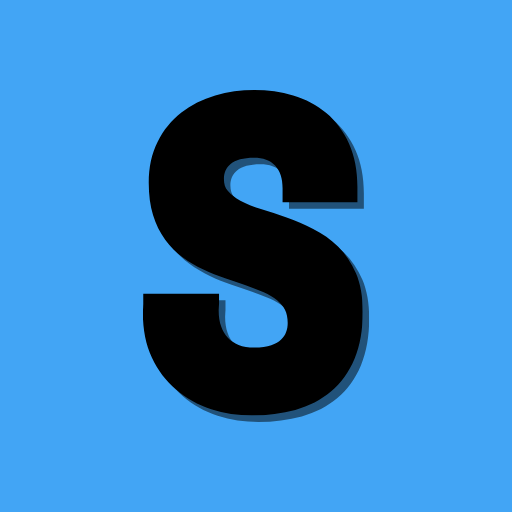
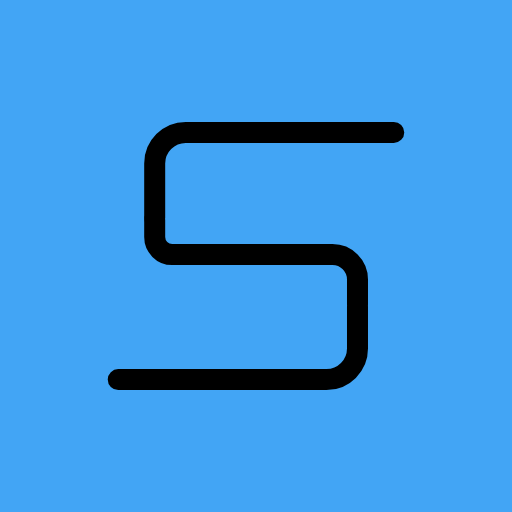
Fix a lot of bugs

Changed region(s): [[0.1875, 0.1562, 0.8125, 0.8438]]

diff --git a/progression/indulgence-course/script-outil.js b/progression/indulgence-course/script-outil.js
@@ -3,33 +3,25 @@ const InterpretationBienveillant = {
     "1": "Je n'ai <strong>pas encore assez de données</strong> pour calculer ton indulgence de course. J'ai hâte que tu enregistres ton <strong>premier entraînement</strong> de course (en enregistrant une distance) dans Sprintia pour qu'on analyse ça ensemble.", 
     "2": "Tu cours <strong>moins depuis 7 jours</strong>, c'est dommage ! Si c'est un choix profite-en pour te reposer ou travailler d'autres aspects de la course comme le <strong>renforcement</strong> ou de la <strong>mobilité</strong>.", 
     "3": "Parfait ! <strong>Tu progresses</strong> grâce à ta <strong>régularité</strong> ainsi qu'à ta discipline, continue comme ça pour booster tes performances. Pour maximiser ta progression, pense toujours à <strong>varier tes allures</strong> d'entraînement.", 
-    "4": "Attention, tu cours <strong>bien plus que d'habitude</strong> ! Si tu continues sur ce rythme tu risques de te <strong>blesser</strong>. P'tit conseil, <strong>réduis</strong> ton volume d'entraînement.", 
-    // Pour les statut
-    "5": "Statut : <strong>Pause</strong><br>Tu as mis en pause les analyses, je ne peux donc pas analyser ton indulgence de course."
+    "4": "Attention, tu cours <strong>bien plus que d'habitude</strong> ! Si tu continues sur ce rythme tu risques de te <strong>blesser</strong>. P'tit conseil, <strong>réduis</strong> ton volume d'entraînement."
 }
 const InterpretationStrictMotivant = {
     "1": "Je n'ai <strong>pas encore assez de données</strong> pour calculer ton indulgence de course. J'ai hâte que tu enregistres ton <strong>premier entraînement</strong> de course (en enregistrant une distance) dans Sprintia pour qu'on analyse ça ensemble.", 
     "2": "Tu cours <strong>moins depuis 7 jours</strong>. Fais attention si tu continues sur cette voie, tu risques de perdre du niveau rapidement ! Petit conseil pour limiter la casse, fais du <strong>renforcement</strong>.", 
     "3": "Parfait ! <strong>Tu progresses</strong> grâce à ta <strong>régularité</strong>. La régularité c'est la clé de la réussite donc, continue comme ça pour progresser. Mais attention, le plus dur n'est pas de progresser mais de continuer à progresser.", 
-    "4": "Tu cours <strong>bien plus que d'habitude</strong> ! Si tu veux te <strong>blesser</strong>, tu es sur la bonne voie, ne joue pas avec le feu, arrête de courir pendant quelques jours, pour revenir plus fort.", 
-    // Pour les statut
-    "5": "Statut : <strong>Pause</strong><br>Tu as mis en pause les analyses, je ne peux donc pas analyser ton indulgence de course."
+    "4": "Tu cours <strong>bien plus que d'habitude</strong> ! Si tu veux te <strong>blesser</strong>, tu es sur la bonne voie, ne joue pas avec le feu, arrête de courir pendant quelques jours, pour revenir plus fort."
 }
 const InterpretationCopain = {
     "1": "Je n'ai <strong>pas encore assez de données</strong> pour calculer ton indulgence de course. J'ai hâte que tu enregistres ton <strong>premier entraînement</strong> de course (en enregistrant une distance) dans Sprintia pour qu'on analyse ça ensemble.", 
     "2": "Tu cours <strong>moins depuis 7 jours</strong>. Essaie de courir un peu plus, ne te relâche pas, sinon tu vas finir par perdre tout ton niveau et crois moi, tu vas t'en vouloir une fois qu'il sera trop tard.", 
     "3": "Bravo ! <strong>Tu progresses</strong> grâce à ton sérieux, ta concentration et ta détermination à toujours donner le meilleur de toi-même. Pour continuer à progresser, pense toujours à <strong>varier tes allures</strong> d'entraînement.", 
-    "4": "Attention, tu cours <strong>bien plus que d'habitude</strong> ! J'ai l'impression que tu aimes un peu trop courir en ce moment, c'est bien, mais attention : moins tu es progressif·ve, plus tu risques de te blesser.", 
-    // Pour les statut
-    "5": "Statut : <strong>Pause</strong><br>Tu as mis en pause les analyses, je ne peux donc pas analyser ton indulgence de course."
+    "4": "Attention, tu cours <strong>bien plus que d'habitude</strong> ! J'ai l'impression que tu aimes un peu trop courir en ce moment, c'est bien, mais attention : moins tu es progressif·ve, plus tu risques de te blesser."
 }
 const InterpretationGoMuscu = {
     "1": "Je n'ai <strong>pas encore assez de données</strong> pour calculer ton indulgence de course. J'ai hâte que tu enregistres ton <strong>premier entraînement</strong> de course (en enregistrant une distance) dans Sprintia pour qu'on analyse ça ensemble.", 
     "2": "Tu cours <strong>moins depuis 7 jours</strong>, attention, la course à pied c'est comme la musculation ça demande de la <strong>régularité</strong>. Ton coeur, c'est un muscle, il faut le travailler pour qu'il devienne meilleur.", 
     "3": "<strong>Tu progresses</strong>, parfait ! En plus de travailler tes muscles, tu travailles ton coeur, bien joué ! Pour continuer à progresser, pense toujours à <strong>varier tes allures</strong> d'entraînement.", 
-    "4": "Tu cours <strong>bien plus que d'habitude</strong> ! Fais attention, si tu continues sur ce rythme tu risques de te <strong>blesser</strong> donc réduis ton volume kilométrique.", 
-    // Pour les statut
-    "5": "Statut : <strong>Pause</strong><br>Tu as mis en pause les analyses, je ne peux donc pas analyser ton indulgence de course."
+    "4": "Tu cours <strong>bien plus que d'habitude</strong> ! Fais attention, si tu continues sur ce rythme tu risques de te <strong>blesser</strong> donc réduis ton volume kilométrique."
 }
 
 async function RecupData() {

diff --git a/entrainement/statistiques.html b/entrainement/statistiques.html
@@ -235,9 +235,9 @@
         const DateActuelle = new Date()
 
         let DateMoins7J = DateActuelle.setDate(DateActuelle.getDate() - 7) // pour le calcul des dates il faut les mettre en timestamp enleve le nb de j ici, ça renvoie ex: 1769014250809
-        DateMoins7J = new Date(DateMoins7J).toISOString() // permet de recup '2026-01-21T17:13:53.151Z'
+        DateMoins7J = new Date(DateMoins7J).toISOString() // permet de recup "2026-01-21T17:13:53.151Z"
         // On prend que ce qui nous interesse donc la premiere partie
-        DateMoins7J = DateMoins7J.split('T')[0] // on obtient '2026-01-21'
+        DateMoins7J = DateMoins7J.split("T")[0] // on obtient "2026-01-21"
 
         let DateMoins30J = DateActuelle.setDate(DateActuelle.getDate() - 30) // pour le calcul des dates il faut les mettre en timestamp enleve le nb de j ici, ça renvoie ex: 1769014250809
         DateMoins30J = new Date(DateMoins30J).toISOString() // permet de recup '2026-01-21T17:13:53.151Z'
@@ -261,6 +261,8 @@
         async function statistiquesParSport(sportForFunction) {
             // recup data des derniers jours en fonction de la date
             const historiqueDBStats = await db.entrainement.where("date").above(dateDemandee).toArray() // la var dateChoisie change en fonction du selected dans l'interface
+            
+            console.log(historiqueDBStats)
 
             // maj de la variable globale
             sportDemandee = sportForFunction

diff --git a/progression/charge-entrainement/script-outil.js b/progression/charge-entrainement/script-outil.js
@@ -82,10 +82,8 @@ async function InterpretationJRM(Ratio, AnalysePossible) {
         "Statut : <strong>Désentraînement</strong><br>Tu régresses là ! Il ne faut pas hésiter à faire 1 ou 2 répétitions en plus sur tes séries pour pouvoir augmenter ton RPE et par conséquent ta charge d'entraînement.",
         "Statut : <strong>Productif</strong><br>GG, tu progresses, je vois que tu mets une bonne intensité pendant tes séances, continue comme ça. Tu n'as presque plus besoin de moi.",
         "Statut : <strong>Surentraînement</strong><br>Ton corps n'arrive pas à bien récupérer de tes entraînements récents, n'oublie jamais que le muscle se construit au repos, pas à la salle, repose-toi un peu avant d'aller à la salle."
-    ] 
-
-    const PhraseJRMStatut = "Statut : <strong>Pause</strong><br>Actuellement les analyses sont en pause je ne peux donc pas analyser ta charge d'entraînement pour déterminer si ton entraînement est productif,..."
-
+    ]
+    
     // Déterminer le coach choisis du user
     let CoachUserDB = await db.JRM_Coach.toArray()
     let StyleCoachUser = PhraseJRMBienveillant // attribution du style de coach a utilisé pour l'interpretation

diff --git a/parametres/parametres.html b/parametres/parametres.html
@@ -130,7 +130,7 @@
     </div>
 
     <div class="action-list">  
-        <a href="Profil/profil.html">
+        <a href="profil/profil.html">
             <div class="action-list-item">
                 <i class="fs-icon_profil"></i>
                 <p class="text-param">Profil</p>
@@ -159,7 +159,7 @@
 
     <div class="action-list">
 
-        <a href="Sprintia-labs/sprintia-labs.html">
+        <a href="sprintia-labs/sprintia-labs.html">
             <div class="action-list-item">
                 <i class="fs-icon_labs"></i>
                 <p class="text-param">Sprintia Labs</p>

diff --git a/progression/recuperation/script-outil.js b/progression/recuperation/script-outil.js
@@ -1,0 +1,4 @@
+async function saveRecuperation() {
+    alert("Pas encore disponible")
+    return
+}

diff --git a/parametres/sprintia-labs/sprintia-labs.html b/parametres/sprintia-labs/sprintia-labs.html
@@ -101,7 +101,7 @@
         </p>
     </div>
 
-    <h2>algorithmes-sans-bases-scientifiques</h2>
+    <h2>Algorithmes sans bases scientifiques</h2>
     <div class="outil" style="
         background-color: var(--COLOR_BACKGROUND_CARD);
         border-radius: var(--BORDER_NORMAL);

diff --git a/progression/predicteur-performance/predicteur-performance.html b/progression/predicteur-performance/predicteur-performance.html
@@ -6,7 +6,7 @@
     <meta name="description" content="Sprintia : Des outils gratuits pour analyser et optimiser vos entraînements.">
     <meta name="viewport" content="width=device-width, initial-scale=1.0">
 
-    <link rel="stylesheet" href="../../CSS/style.css">
+    <link rel="stylesheet" href="../../css/style.css">
     
     <link rel="icon" type="image/png" href="../../assets/icons-sprintia/icon-512-V4.3.png">
 

diff --git a/progression/recuperation/ajouter-recuperation.html b/progression/recuperation/ajouter-recuperation.html
@@ -100,7 +100,7 @@
                 </div>
             </div>
                 
-            <button id="button-sauvegarder" onclick="saveWorkout()">Sauvegarder</button>
+            <button id="button-sauvegarder" onclick="saveRecuperation()">Sauvegarder</button>
         </div>
 
     </section>